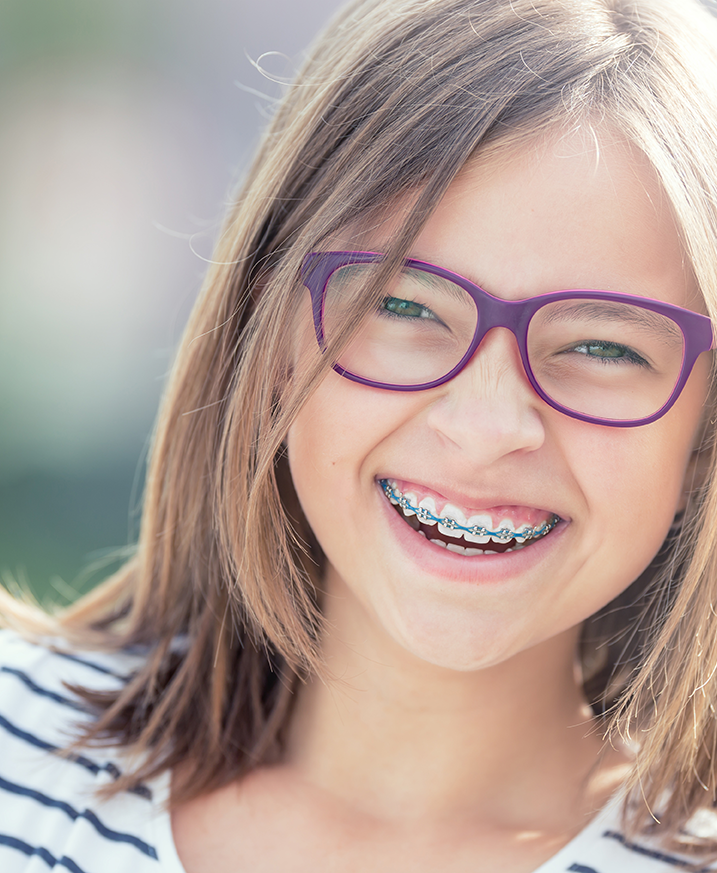
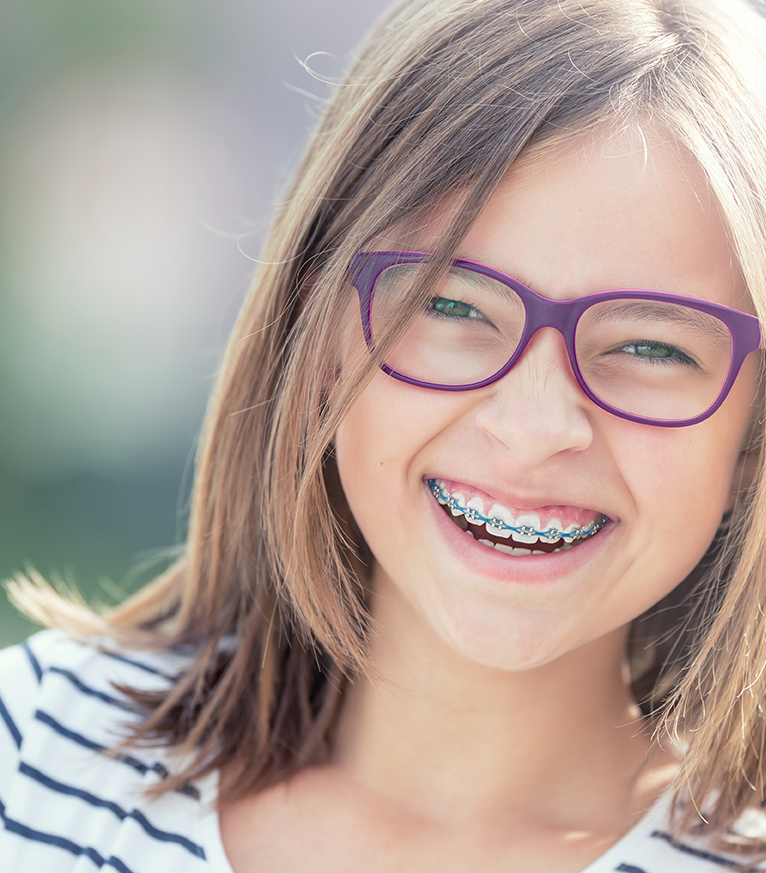
javascript functionality

diff --git a/style.css b/style.css
@@ -77,7 +77,7 @@ body {
   font-family: "Russo One", sans-serif;
 }
 .logoTextBottom {
-  background-color: orange;
+  /* background-color: orange; */
   font-size: 14px;
   letter-spacing: 0.4px;
   font-family: "Titillium Web", sans-serif;
@@ -482,8 +482,7 @@ input.contactFormInput:valid + .formIcon {
   position: relative;
   background-image: url("images/smile.png");
   background-repeat: no-repeat;
-  /* background-position-x: center; */
-  background-position: bottom 0px left -20px;
+  /* background-position: bottom 0px left -20px; */
   background-size: cover;
   -webkit-background-size: cover;
   -moz-background-size: cover;

diff --git a/index.html b/index.html
@@ -61,7 +61,6 @@
 
       <main>
         <div id="landingBox">
-          <!-- <div class="landingImg"></div> -->
           <div class="gradient"></div>
           <div class="landingText">
             <div class="landingHeading unselectable">

diff --git a/mobile.css b/mobile.css
@@ -8,7 +8,7 @@
     line-height: 21px;
   }
   #landingBox {
-    background-position: bottom 0px left -18px;
+    /* background-position: bottom 0px left -18px; */
   }
 }
 
